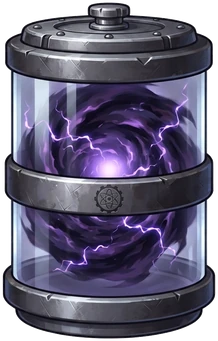
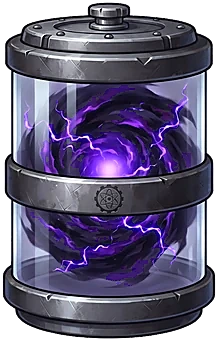
Barra superior: icono de materia oscura más grande y con morado más intenso
Claude-Session: https://claude.ai/code/session_01GZAuJLMYtJJ63SBS7JhMSQ

diff --git a/public/forja-astral.html b/public/forja-astral.html
@@ -80,6 +80,7 @@ body.anim-none *,body.anim-none *::before,body.anim-none *::after{animation:none
 .swap-open:focus-visible{outline:1px solid var(--text-primary);outline-offset:2px}
 .res-box svg{flex:none;width:16px;height:16px}
 .res-icon{display:block;width:40px;height:40px;flex:none;object-fit:contain}
+.dark-box .res-icon{width:auto;height:50px}
 .res-label{font-size:11px;color:var(--text-secondary);line-height:1.1;white-space:nowrap}
 .res-val{font:500 14px var(--font-title);line-height:1.3;white-space:nowrap;color:var(--text-primary)}
 .res-box[title="Token"] .res-val{color:var(--accent-text)!important}
@@ -702,6 +703,7 @@ body.anim-none *,body.anim-none *::before,body.anim-none *::after{animation:none
   .res-box,.res-box[title^="Energía"]{width:auto;min-width:0;max-width:none;height:48px;min-height:0;gap:4px;padding:4px 6px;border:1px solid var(--border-subtle);border-radius:var(--r);background:var(--bg-surface)}
   .res-box:last-child{border-right:1px solid var(--border-subtle)}
   .res-icon{width:24px;height:24px}
+  .dark-box .res-icon{width:auto;height:24px}
   .res-box svg{width:16px;height:16px}
   .res-box>div{min-width:0;flex:1}
   .res-label,.res-rate{max-width:100%;overflow:hidden;text-overflow:ellipsis}

diff --git a/README.md b/README.md
@@ -47,7 +47,7 @@ Crea a partir de esta lista las fases de trabajo, y propón al dueño el orden a
 0. **Limpieza del swap:** precio inicial del TOKEN en 0,000152, comisión `FEE` en 0,03, quitar el código del staking demo y añadir el check de términos antes de cada swap. **Estado: completada** (check de términos con texto provisional, pendiente del abogado).
 1. **Modo prueba:** separar la velocidad de prueba (x100) en un interruptor claro. La investigación con tiempo real y cola está **pendiente de aprobación** (fórmula y si la cola es por planeta o por cuenta); no se implementa hasta que se apruebe. **Estado: aplicada** (botón "Activar modo prueba" en ajustes, velocidad normal x1). **Regla:** el botón de modo prueba y el selector de velocidad se quitan antes del lanzamiento oficial.
 2. **Niveles de cuenta:** de Aspirante a Almirante, comisiones de retiro por nivel y reinicio de temporada. **Estado: aplicada** (siete niveles, comisiones 70 a 5 %, temporada de 30 días reales; los puntos llegan en la fase 3).
-3. **Puntos y batallas:** ganancia y pérdida de puntos, efecto del pase VIP, margen 1:3. **Estado: parcial.** Aplicado: puntos para subir de nivel (1.000 a 60.000), barra de progreso en Perfil (pestaña "Nivel y temporada"), puntos por batalla (+50, −30 % por ataque perdido, −20 % por defensa perdida) también para los rivales simulados, bajada de nivel, reinicio de puntos por temporada y reemplazo de los rangos antiguos por los niveles. Aplicado también: pase VIP con la pérdida de puntos reducida a la mitad, insignia VIP/FREE junto al botón Swap, compra del VIP en ventana (98.684 TOKEN, 30 días reales desde la activación), producción +50 %, construcción e investigación +50 % y venta de naves en P2P solo para VIP. Aplicado: comisión P2P de recursos (15 % free, 5 % VIP) sobre el precio total, cobrada al publicar el aviso. Pendiente: si la venta de naves también paga comisión. Aplicado también: cola de construcción (1 free, hasta 4 VIP), velocidad de naves +50 % para VIP, saldo USDT verde junto a los recursos y el VIP no aumenta la ganancia de puntos. Aplicado también: saldo de materia oscura en la barra superior, pestaña Materia Oscura en Mercado con seis cajas (1 USD = 10 hasta 100 USD = 1.500) y costo de materia oscura desde el nivel 6 (10 × (nivel − 5)) en edificios e investigaciones. Aplicado también: desbloqueo único de naves de ataque con materia oscura (Nave de Batalla 5, Acorazado 12, Bombardero 7, Destructor 30, Estrella de la Muerte 150) y de las defensas más poderosas (Cañón Gauss 10, Cañón de Plasma 40, Cúpula Grande 25). Corregido: cada tarjeta de edificio e investigación muestra la fila de materia oscura (tienes/necesitas), y el juego guarda al cerrar o recargar y al terminar una construcción, para que una subida terminada no vuelva a aparecer como pendiente. Aplicado también: rendimiento: 37 imágenes de escenas y edificios pasan de PNG a WebP (de 18,7 MB a 6,6 MB; los PNG originales se conservan). Aplicado también: las animaciones se pausan en las tarjetas que no se ven y cuando la pestaña del navegador está oculta. Aplicado también: en Configuración se quita la caja de gestión de datos (JSON, importar y exportar). Quedan "Reiniciar Universo" y el botón "Apagar animaciones" (se guarda con la partida). Aplicado también: multiplicador de costos ×10 en edificios, almacenes, instalaciones e investigaciones, y ×5 en naves y defensas. El tiempo de construcción sigue el costo. Objetivo: llegar a nivel 20 en unos 3 meses sin VIP (con VIP se reduce). Aplicado también: icono de materia oscura en la barra superior (assets/recurso_materia_oscura.webp, mismo tamaño que el de deuterio). Aplicado también: icono de energía en la barra superior con una batería inclinada (assets/recurso_energia.webp). Pendiente: revisar el desbloqueo por nivel de naves y defensas si el cliente lo pide. Aplicado también: selector de planeta debajo de XnovaEvolution y barra de recursos más a la izquierda, para que el saldo USDT no quede tapado por el botón VIP/FREE. Las cajas de recursos ajustan su ancho al contenido para que no se corte ningún nombre o valor; en 1100 px o menos la barra de recursos baja a una segunda fila. Pendiente: guerra de alianzas (se decide con el equipo).
+3. **Puntos y batallas:** ganancia y pérdida de puntos, efecto del pase VIP, margen 1:3. **Estado: parcial.** Aplicado: puntos para subir de nivel (1.000 a 60.000), barra de progreso en Perfil (pestaña "Nivel y temporada"), puntos por batalla (+50, −30 % por ataque perdido, −20 % por defensa perdida) también para los rivales simulados, bajada de nivel, reinicio de puntos por temporada y reemplazo de los rangos antiguos por los niveles. Aplicado también: pase VIP con la pérdida de puntos reducida a la mitad, insignia VIP/FREE junto al botón Swap, compra del VIP en ventana (98.684 TOKEN, 30 días reales desde la activación), producción +50 %, construcción e investigación +50 % y venta de naves en P2P solo para VIP. Aplicado: comisión P2P de recursos (15 % free, 5 % VIP) sobre el precio total, cobrada al publicar el aviso. Pendiente: si la venta de naves también paga comisión. Aplicado también: cola de construcción (1 free, hasta 4 VIP), velocidad de naves +50 % para VIP, saldo USDT verde junto a los recursos y el VIP no aumenta la ganancia de puntos. Aplicado también: saldo de materia oscura en la barra superior, pestaña Materia Oscura en Mercado con seis cajas (1 USD = 10 hasta 100 USD = 1.500) y costo de materia oscura desde el nivel 6 (10 × (nivel − 5)) en edificios e investigaciones. Aplicado también: desbloqueo único de naves de ataque con materia oscura (Nave de Batalla 5, Acorazado 12, Bombardero 7, Destructor 30, Estrella de la Muerte 150) y de las defensas más poderosas (Cañón Gauss 10, Cañón de Plasma 40, Cúpula Grande 25). Corregido: cada tarjeta de edificio e investigación muestra la fila de materia oscura (tienes/necesitas), y el juego guarda al cerrar o recargar y al terminar una construcción, para que una subida terminada no vuelva a aparecer como pendiente. Aplicado también: rendimiento: 37 imágenes de escenas y edificios pasan de PNG a WebP (de 18,7 MB a 6,6 MB; los PNG originales se conservan). Aplicado también: las animaciones se pausan en las tarjetas que no se ven y cuando la pestaña del navegador está oculta. Aplicado también: en Configuración se quita la caja de gestión de datos (JSON, importar y exportar). Quedan "Reiniciar Universo" y el botón "Apagar animaciones" (se guarda con la partida). Aplicado también: multiplicador de costos ×10 en edificios, almacenes, instalaciones e investigaciones, y ×5 en naves y defensas. El tiempo de construcción sigue el costo. Objetivo: llegar a nivel 20 en unos 3 meses sin VIP (con VIP se reduce). Aplicado también: icono de materia oscura en la barra superior (assets/recurso_materia_oscura.webp, mismo tamaño que el de deuterio). Aplicado también: icono de materia oscura con morado más intenso y tamaño mayor en la barra superior. Aplicado también: icono de energía en la barra superior con una batería inclinada (assets/recurso_energia.webp). Pendiente: revisar el desbloqueo por nivel de naves y defensas si el cliente lo pide. Aplicado también: selector de planeta debajo de XnovaEvolution y barra de recursos más a la izquierda, para que el saldo USDT no quede tapado por el botón VIP/FREE. Las cajas de recursos ajustan su ancho al contenido para que no se corte ningún nombre o valor; en 1100 px o menos la barra de recursos baja a una segunda fila. Pendiente: guerra de alianzas (se decide con el equipo).
 4. **Verificación de cuentas:** Telegram, límite de 3 cuentas por IP y antigüedad. Requiere servidor. **Decisión: esta fase se hace al final de todo**, cuando empiece la base de datos real, porque el bot de Telegram y las IP aún no están listos.
 5. **Base de datos y servidor:** cuentas, saldos, niveles, puntos, registro de transacciones y panel administrativo protegido.
 6. **Economía real y pagos:** contrato del TOKEN en BNB Chain, precios reales, flujo de compra y retiro, y auditoría antes de activar dinero real.
